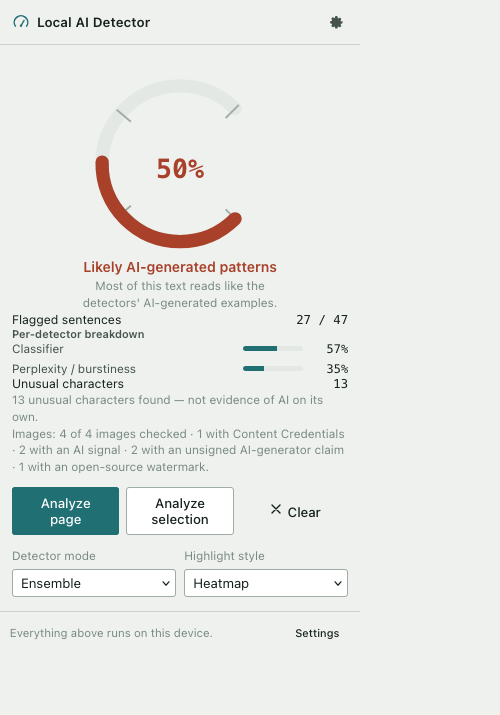
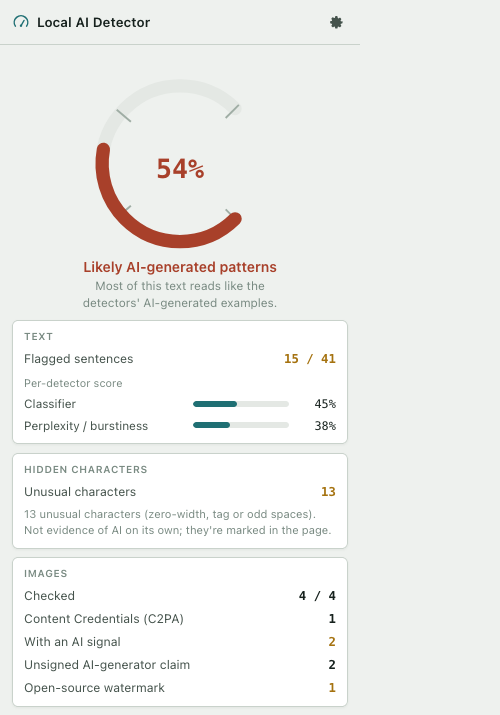
T5: re-take screenshots; qa.md/calibration.md: paragraph-level thresholds, per-paragraph flag rates

diff --git a/docs/qa.md b/docs/qa.md
@@ -38,11 +38,28 @@ service worker. Firefox calls the same handler through the bridge.
 
 | Suite | Result |
 |---|---|
-| Chrome, e2e build, full (5 modes, cold + warm, WebGPU vs WASM, options) | **28/28** |
-| Chrome, **production build**, fresh profile (consent → real download → 4 modes) | **19/19** |
-| Firefox, e2e build, full (5 modes incl. Binoculars) | **19/19** |
-| `npm run typecheck`, `npm test` (223 tests, 21 files, incl. happy-dom DOM tests), both builds | green |
+| Chrome, e2e build, full (5 modes, cold + warm, per-paragraph flag rates, WebGPU vs WASM, options) | **29/29** |
+| Chrome, **production build**, fresh profile (consent → real download → 4 modes, flag rates) | **20/20** |
+| Firefox, e2e build (4 modes; with `--full` also Binoculars: 19/19 in the earlier run) | **17/17** |
+| `npm run typecheck`, `npm test` (226 tests, 21 files, incl. happy-dom DOM tests), both builds | green |
 | `web-ext lint` (Firefox build) | 0 errors, 2 warnings (justified below) |
+
+### Per-paragraph flag rates (regression test)
+
+The fixture paragraphs carry `data-src="human"` (public-domain USGS/NWS/NPS text) or
+`data-src="ai"` (LLM-written). The Chrome suite reads which highlighted sentences sit in which paragraph.
+These are the results at the default settings (ensemble, WASM), identical in the production build:
+
+| Page | Human sentences flagged | AI sentences flagged | Outside labelled paragraphs |
+|---|---|---|---|
+| `news.html` | **0 / 22** | **13 / 17 (76%)** | none (headline, byline and captions aren't scored) |
+| `blog.html` | **0 / 33** | – (its AI text is in reader comments, outside `<article>`, which a page scan doesn't read) | none |
+
+Pill and popup counts match on both pages (news: 15 and 15/41). The test fails if more than 20% of
+human sentences are flagged, if AI paragraphs aren't flagged more often, if anything
+unlabelled is flagged, or if the pill and popup disagree. For the causes of the earlier
+over-flagging and for the paragraph-level calibration, see
+[calibration.md](calibration.md#paragraph-level-thresholds-sentence-colours-and-flagged).
 
 ### What was verified, per browser
 
@@ -124,8 +141,11 @@ Bugs found in the real browsers (or while wiring things together) and fixed:
 5. **Scores depend on the runtime.** Browser WASM ≠ Node, and WebGPU differs more. The engine was
    re-calibrated on the browser itself. WASM is the default (same scores in Chrome and Firefox),
    and WebGPU is opt-in with its own constants. See [calibration.md](calibration.md).
-6. Popup and pill disagreed on the flagged count (0.65 vs 0.6). There is now one shared scale
-   (`src/shared/thresholds.ts`).
+6. Popup and pill disagreed on the flagged count. The first cause was different thresholds (0.65 vs 0.6),
+   now one scale in `src/shared/thresholds.ts`. The second cause was re-analysis
+   reading the extension's own `⟦ZW⟧` markers as page text, which lost those sentences'
+   ranges (popup 43 against pill 41). Extraction now skips the markers, and the pill counts
+   with the popup's function on the same result.
 7. Every sentence under `minWords` was drawn "muted", so nearly the whole page was, although scores
    are per group of sentences. Now only a whole analysis under `minWords` is muted.
 8. Selection inside a single text node extracted nothing (TreeWalker rooted at a text node).
@@ -146,6 +166,14 @@ Bugs found in the real browsers (or while wiring things together) and fixed:
     and the inference worker Firefox-only.
 16. Options now lists `UNCHECKABLE_SCHEMES` (with checker links) and uses
     `requestImagePermission()`.
+17. **Human paragraphs were flagged** (the lead's review of `page-flagged.jpg`). Headings, bylines and
+    captions were scored and folded into paragraphs. Classifier chunks spanned several
+    paragraphs. Paragraph-sized pieces used document-level thresholds. Now page scans drop
+    non-prose blocks, sentence colours come from one classifier chunk per paragraph, and they use
+    paragraph-level thresholds fitted in the browser. See the table above.
+18. The popup's result area was redone as cards (Text, Hidden characters, Images) with aligned
+    label/value rows, a proper per-detector bar grid, a styled permission button and an
+    aligned "✕ Clear" button.
 
 New settings (Options): **Ensemble classifier** (TMR default, lite optional) and **Use
 the GPU (WebGPU)** (off by default).

diff --git a/docs/calibration.md b/docs/calibration.md
@@ -85,6 +85,51 @@ US-government prose. It **misses about half of the AI text** (it flags 46% of MA
 28 calibration human texts, mostly the modern US-government prose. That is the hard case
 for every detector here.
 
+### Paragraph-level thresholds (sentence colours and "flagged")
+
+The document-level constants above set the page's **overall** score.
+Sentence colours and the "flagged" count come from **paragraph-sized**
+pieces of text. These are much shorter and noisier than a document, so they
+use their own operating points (`CALIBRATION.unit`):
+
+- **Classifier.** Sentence colours come from one chunk per paragraph (text.ts
+  `packChunks(…, splitEveryBlock)`), so human and AI paragraphs are never
+  averaged together. The overall score still uses document-sized chunks.
+- **Perplexity.** Each scoring unit (≥ `minWords` words, kept within a paragraph
+  where possible) is compared with the unit threshold.
+- **Fit.** `scripts/e2e/browser-unit-calibration.mjs` runs the same texts in the
+  extension, split into page-like paragraphs (single-paragraph MAGE texts are cut into pieces of
+  ≥ 60 words). That gives about 965 human and 895 AI paragraphs. Each threshold sits
+  where about 5% of human paragraphs score higher, with the same slopes.
+
+| Paragraph level (WASM) | Threshold | AUROC | AI paragraphs flagged at the threshold |
+|---|---|---|---|
+| TMR logit centre | 4.20 (document 3.84) | 0.80 | 42% |
+| Lite logit centre | 2.34 (document 2.70) | 0.73 | 24% |
+| Perplexity τ (log-PPL) | 3.02 (document 3.17) | 0.66 | 21% |
+
+WebGPU: TMR 3.87, lite 2.22, τ 2.81.
+
+Page scans also drop headings, captions and blocks under 12 words
+(`proseBlocks`). Before, these were scored and, being too short to score alone,
+folded into the next paragraph's unit.
+
+**Fixture check (E2E regression test, `per-paragraph flag rates`).** On
+`news.html` (ensemble, WASM, Chrome and Firefox), **0 of 22** sentences in the
+public-domain USGS/NWS paragraphs are flagged, and **13 of 17 (76%)** in the
+LLM-written paragraphs. On `blog.html`, 0 of 33 human sentences are flagged. The test fails if
+more than 20% of human sentences are flagged, if AI paragraphs aren't flagged more
+often, or if anything outside the labelled paragraphs is flagged. It also checks that the
+pill and the popup report the same count.
+
+Before this change, most of `news.html` was flagged, including the headline, byline,
+captions and the USGS paragraphs. The causes:
+1. Headings and captions were folded into paragraph units.
+2. Classifier chunks of up to 384 tokens spanned several paragraphs, mixing human and AI text.
+3. Paragraph-sized pieces were mapped with document-level constants. Short text reads
+   as more AI-like to these detectors, so human paragraphs crossed 0.5.
+4. Re-analysing a page read the extension's own `⟦ZW⟧` markers as page text.
+
 ## Which classifier the ensemble uses
 
 **TMR (`onnx-community/tmr-ai-text-detector-ONNX`), not the lite model.** T1's
